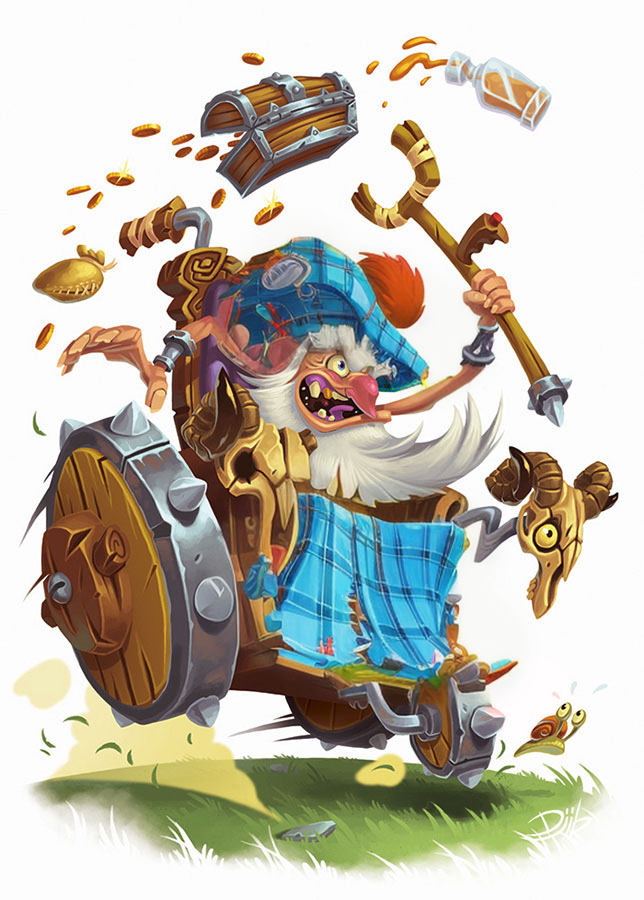
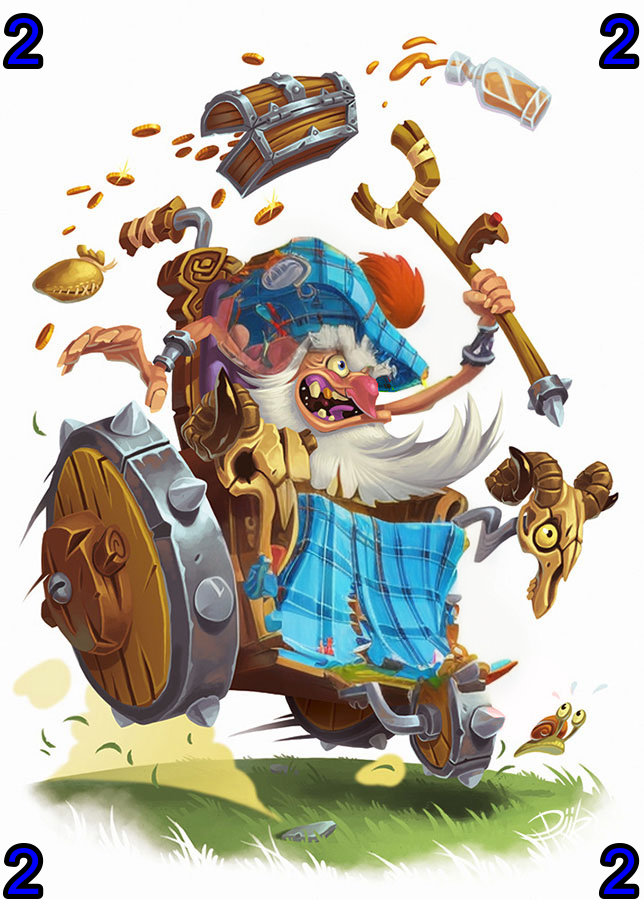
Add ressources with numbers, and converted to png

diff --git a/script/number.py b/script/number.py
@@ -1,0 +1,91 @@
+from PIL import Image, ImageDraw, ImageFont
+import os
+import pathlib
+
+def get_image_list(directory):
+    image_list = []
+    for file_name in os.listdir(directory):
+        if file_name.lower().endswith(('.jpg', '.png')):
+            image_path = os.path.join(directory, file_name)
+            image_list.append(image_path)
+    return image_list
+
+
+def convert_images(image_list):
+    for image_path in image_list:
+        image_name, image_ext = os.path.splitext(image_path)
+        image_name_parts = os.path.basename(image_name).split('-')
+
+        # Récupère la couleur et le numéro à partir du nom du fichier
+        color = image_name_parts[0]
+        number = image_name_parts[-1]
+
+        image = Image.open(image_path)
+
+        # Conversion en mode RVB si l'image est en mode RGBA
+        if image.mode == 'RGBA':
+            image = image.convert('RGB')
+
+        width, height = image.size
+        draw = ImageDraw.Draw(image)
+        font_size = min(width,
+                        height) // 10  # Taille de police proportionnelle à la taille de l'image
+        font = ImageFont.truetype('arial.ttf', font_size)
+
+        text_width, text_height = draw.textsize(number, font)
+
+        # Détermine la couleur du texte en fonction du nom de fichier
+        if color.lower() == 'purple':
+            text_color = (128, 0, 128)  # Pourpre (RVB)
+        elif color.lower() == 'green':
+            text_color = (0, 128, 0)  # Vert (RVB)
+        elif color.lower() == 'red':
+            text_color = (255, 0, 0)  # Rouge (RVB)
+        elif color.lower() == 'orange':
+            text_color = (255, 165, 0)  # Orange (RVB)
+        elif color.lower() == 'yellow':
+            text_color = (255, 255, 0)  # Jaune (RVB)
+        elif color.lower() == 'blue':
+            text_color = (0, 0, 255)  # Bleu (RVB)
+        else:
+            text_color = (0, 0, 0)  # Noir (RVB)
+
+        # Écrit le numéro dans chaque coin de l'image avec contour noir et marge proportionnelle
+        border_width = max(1,
+                           int(font_size * 0.08))  # Largeur du contour proportionnelle à la taille de la police
+        margin = max(1,
+                     int(font_size * 0.1))  # Marge proportionnelle à la taille de la police
+        draw.text((0 + margin, 0 + margin), number, font=font, fill=text_color,
+                  stroke_width=border_width, stroke_fill=(0, 0, 0))
+        draw.text((width - text_width - margin, 0 + margin), number, font=font,
+                  fill=text_color, stroke_width=border_width,
+                  stroke_fill=(0, 0, 0))
+        draw.text((0 + margin, height - text_height - margin), number,
+                  font=font, fill=text_color, stroke_width=border_width,
+                  stroke_fill=(0, 0, 0))
+        draw.text((width - text_width - margin, height - text_height - margin),
+                  number, font=font, fill=text_color,
+                  stroke_width=border_width, stroke_fill=(0, 0, 0))
+
+        # Enregistre l'image avec les numéros dans chaque coin
+        output_path = f"{image_name}{image_ext}"
+        image.save(output_path)
+
+        print(f"L'image {image_path} a été convertie en {output_path}.")
+
+def convert_to_png(directory):
+    image_list = [file_name for file_name in os.listdir(directory) if file_name.lower().endswith(('.jpg', '.jpeg'))]
+    for image_name in image_list:
+        image_path = os.path.join(directory, image_name)
+        image = Image.open(image_path)
+        image_name_without_ext = os.path.splitext(image_name)[0]
+        output_path = os.path.join(directory, f"{image_name_without_ext}.png")
+        image.save(output_path, "PNG")
+        print(f"L'image {image_path} a été convertie en {output_path}.")
+
+# Liste des images à traiter
+image_list = get_image_list("../resources/cards_customs")
+print(image_list)
+
+convert_to_png("../resources/cards_customs")
+#convert_images(image_list)
